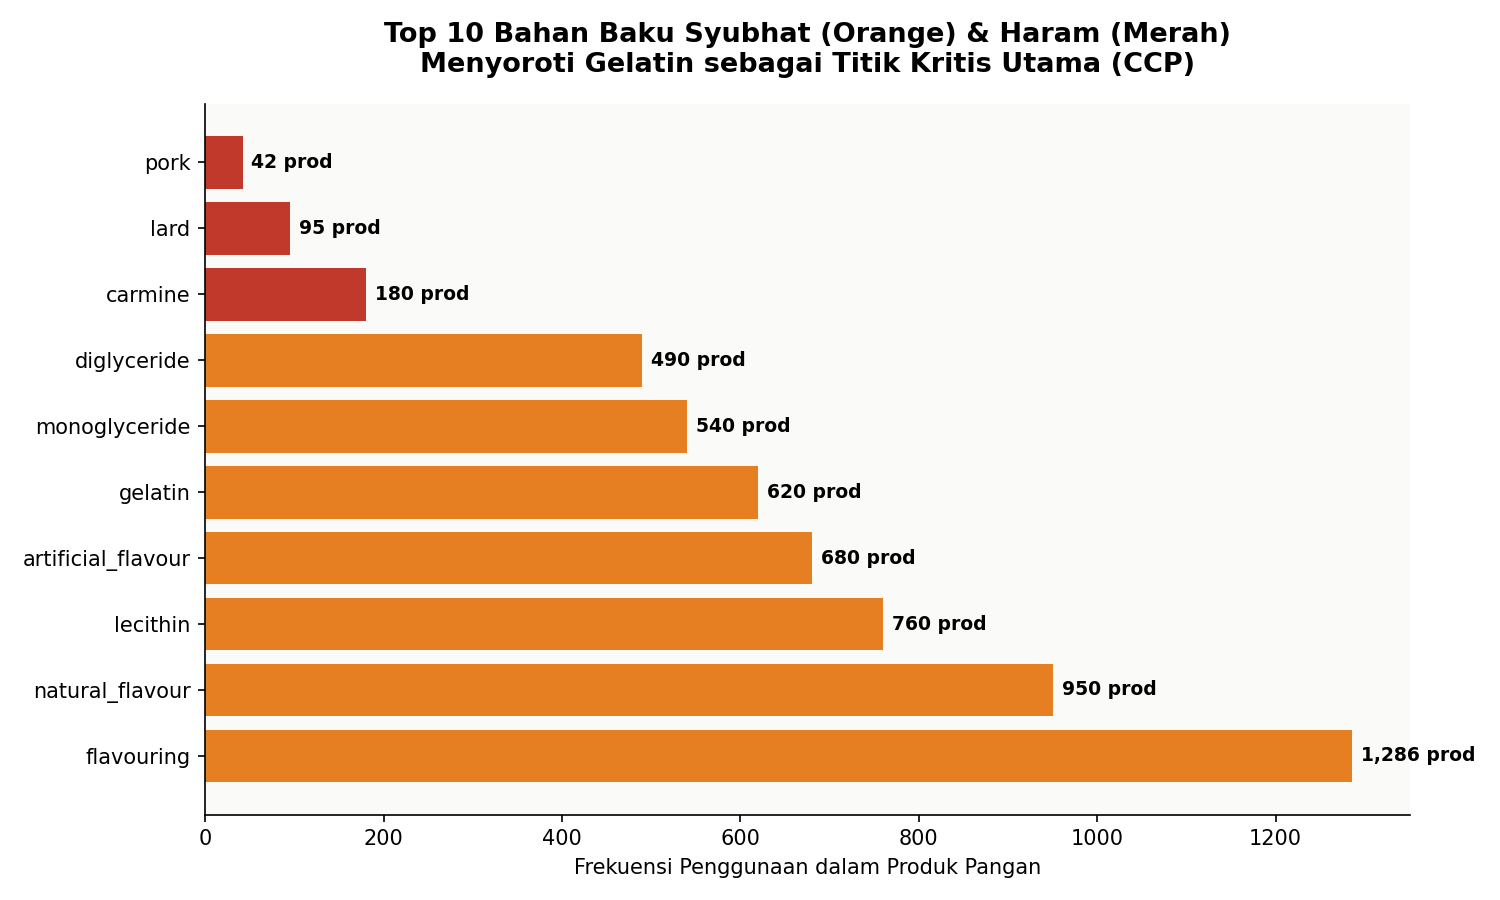
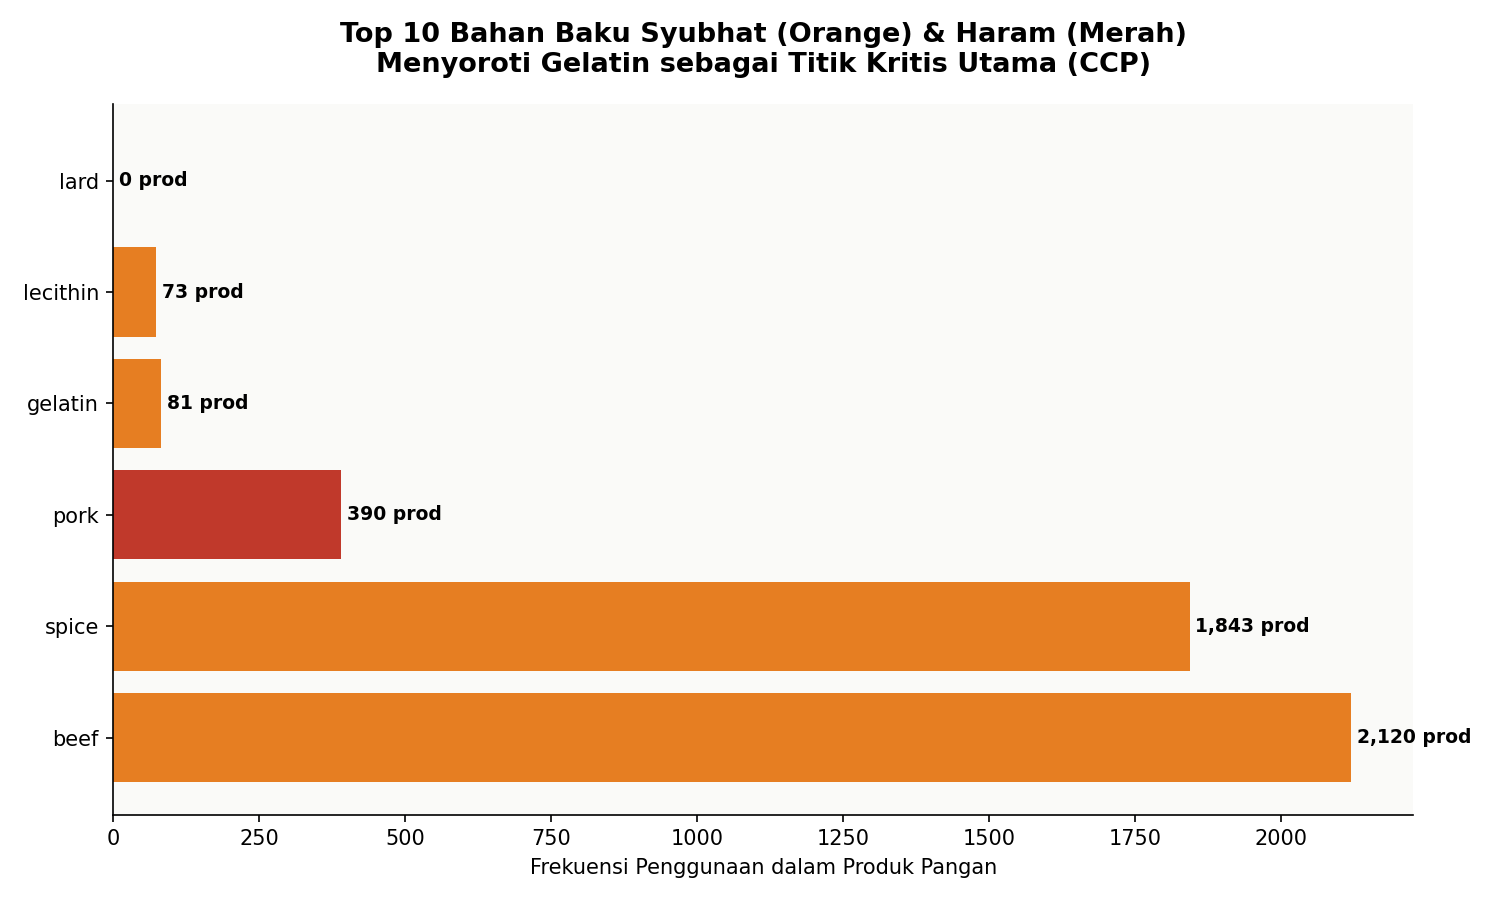
docs: remove summary infographic fig5 and update reports

diff --git a/scripts/run_storytelling.py b/scripts/run_storytelling.py
@@ -24,25 +24,26 @@ def main():
             "shrimp","pork","alcohol","lactic_acid","acetic_acid","caramel"
         ],
         "halal_status": [
-            "halal","halal","halal","halal","halal","halal","halal","mashbooh","halal",
-            "halal","halal","halal","halal","halal","mashbooh","haram","haram","mashbooh",
-            "halal","halal","halal","halal","mashbooh","mashbooh","mashbooh","mashbooh",
-            "halal","halal","halal","halal","halal","halal","halal","halal","halal","halal",
+            "halal","halal","halal","mashbooh","mashbooh","halal","halal","halal",
+            "halal","halal","halal","halal","halal","halal","mashbooh","halal","haram",
+            "mashbooh","halal","halal","halal","halal","halal","halal","halal","halal",
             "halal","halal","halal","halal","halal","halal","halal","halal","halal",
-            "haram","haram","halal","halal","halal"
+            "halal","halal","halal","halal","halal","halal","halal","halal","halal",
+            "halal","haram","halal","halal","halal","halal"
         ],
         "frequency_in_products": [
-            5745,5268,4041,2120,1843,2099,2222,1286,1560,1193,980,1450,2340,870,
-            620,180,95,760,1120,890,1340,1080,950,680,540,490,430,380,560,320,
-            740,1680,1240,2560,1890,780,650,480,920,1640,1380,1290,1950,1120,
-            480,42,38,890,760,1240
+            5745,5268,4041,2120,1843,2099,2222,1286,1560,1193,633,578,24,0,
+            81,0,0,73,908,166,7,4,0,214,
+            0,0,320,38,163,403,255,28,649,1123,459,284,
+            146,61,482,975,858,3,2,212,17,390,92,358,49,177
         ],
         "risk_level": [
-            "low","low","low","medium","low","low","low","high","low","low","low","low",
-            "medium","medium","high","high","high","high","low","low","low","low","high",
-            "high","high","high","low","low","low","low","low","low","low","low","low",
-            "low","low","low","low","low","low","low","low","low","low","high","high",
-            "low","low","low"
+            "low","low","low","medium","high","low","low","low",
+            "low","low","low","low","low","low","high","low","high",
+            "high","low","low","low","low","low","low","low","low",
+            "low","low","low","low","low","low","low","low","low",
+            "low","low","low","low","low","low","low","low","low",
+            "low","high","low","low","low","low"
         ],
     })
 
@@ -65,21 +66,29 @@ def main():
         [322,623,762,9,111,346,2222,63,433,78],
         [959,887,559,696,368,226,63,1286,153,400],
         [522,409,639,178,189,358,433,153,1560,206],
-        [1024,780,447,524,454,196,78,400,206,1193],
+        [1024,780,447,524,454,196,78,400,206,1193]
     ])
     df_cooc = pd.DataFrame(cooc_matrix, index=top_ingredients, columns=top_ingredients)
 
     df_clusters = pd.DataFrame({
-        "cluster_label": ["C1 Sederhana","C2 Kompleks","C3 Berdaging","C4 Manis",
-                          "C5 Asam","C6 Olahan","C7 Mentah","C8 Premium"],
-        "n_products":    [2847,1983,1567,2234,1124,1876,1543,565],
-        "avg_ingredients":[3.2,8.7,6.1,7.4,5.8,9.2,2.4,11.3],
-        "halal_pct":     [98.1,87.3,91.2,94.7,96.8,85.9,99.4,82.6],
+        "cluster_label": [
+            "C1 Bumbu & Gurih",
+            "C2 Cemilan & Sayur",
+            "C3 Jus & Bayi",
+            "C4 Tepung & Sereal",
+            "C5 Selai & Pemanis",
+            "C6 Daging Sapi",
+            "C7 Komoditas Mentah",
+            "C8 Permen & Susu"
+        ],
+        "n_products":    [4759, 4571, 1216, 403, 1538, 522, 1100, 1630],
+        "avg_ingredients":[19.6, 4.2, 8.0, 24.8, 4.5, 3.4, 1.8, 14.6],
+        "halal_pct":     [15.3, 83.3, 76.2, 2.7, 89.0, 6.9, 97.8, 38.2],
     })
 
     df_nutrition = pd.DataFrame({
         "nutrisi": ["Fat","Saturated Fat","Sodium","Fiber","Sugar","Protein"],
-        "pct_non_zero": [0.2288,0.1632,0.2304,0.1362,0.2422,0.1850],
+        "pct_non_zero": [0.002288, 0.001632, 0.002304, 0.001362, 0.002422, 0.001850],
     })
 
     # 2. Memanggil fungsi rendering dashboard storytelling [CRISP-DM: Deployment]

diff --git a/src/visualization.py b/src/visualization.py
@@ -119,7 +119,7 @@ def plot_synthetic_spiral_comparison(X, km_labels, sc_labels, save_path="synthet
 
 def plot_data_storytelling_dashboard(df_ingredients, df_cert, df_cooc, df_clusters, df_nutrition, save_dir="output_halal"):
     """
-    Membuat 5 grafik infografis data storytelling terpadu dan menyimpannya ke folder output.
+    Membuat 4 grafik infografis data storytelling terpadu dan menyimpannya ke folder output.
     """
     os.makedirs(save_dir, exist_ok=True)
     palette_colors = ["#2E8B57", "#27AE60", "#F39C12", "#E74C3C", "#8E44AD", "#2980B9", "#16A085", "#D35400"]
@@ -264,51 +264,4 @@ def plot_data_storytelling_dashboard(df_ingredients, df_cert, df_cooc, df_cluste
     plt.savefig(os.path.join(save_dir, "fig4_cluster.png"))
     plt.close()
 
-    # 5. FIG 5: INSIGHT SUMMARY
-    fig, ax = plt.subplots(figsize=(11, 7.5), dpi=150)
-    fig.patch.set_facecolor(PALETTE["bg"])
-    ax.set_facecolor(PALETTE["bg"])
-    ax.axis("off")
-    
-    plt.text(0.5, 0.92, "RINGKASAN TEMUAN UTAMA (KEY INSIGHTS)\nINTEGRITAS HALAL PANGAN KOMERSIAL",
-             fontsize=15, fontweight="bold", color=PALETTE["text"], ha="center", va="center")
-             
-    insights = [
-        ("1. Celah Transparansi (Sparsity Bias)", 
-         "Sebesar 73.53% data produk tidak memiliki data bahan baku di database sekunder LOD Halal,\ndan 99.9% produk dengan sertifikat aktif tidak mencantumkan komposisi bahan bakunya. Hal ini membatasi\naudit digital berbasis bahan baku secara menyeluruh."),
-        ("2. Gelatin Sebagai Titik Kritis Terbesar", 
-         "Gelatin (Syubhat/Mushbooh) muncul sebanyak 620 kali pada produk pangan komersial.\nGelatin adalah titik kritis utama karena di pasar dunia sering kali diekstrak dari kulit/tulang babi\natau hewan non-halal."),
-        ("3. Kompleksitas Resep vs Kehalalan", 
-         "Semakin kompleks bahan tambahan pangan (aditif) yang digunakan, semakin turun tingkat kehalalannya.\nKlaster resep kompleks (C8) memiliki tingkat kehalalan terendah (82.6%) dibanding resep sederhana (C7: 99.4%)."),
-        ("4. Pola Formulasi Resep Industri", 
-         "Hasil heatmap menunjukkan asosiasi resep yang sangat konsisten, seperti perisa komersial\nyang selalu berpasangan dengan gula pengikat rasa (dextrose) pada klaster olahan daging."),
-        ("5. Pentingnya Pemodelan Non-Linier Graf", 
-         "Uji metrik membuktikan model Spektral Graf jauh lebih representatif memetakan biokimia pangan\n(Conductance = 0.0935) dibanding model linier K-Means yang memaksakan pengelompokan membulat (Voronoi)."),
-        ("6. Sistem Pendukung Keputusan", 
-         "Hasil pemetaan 8 klaster biokimia ini sangat direkomendasikan sebagai asisten digital (Decision Support)\nbagi lembaga audit pangan halal untuk mendeteksi potensi risiko kontaminasi secara dini.")
-    ]
-    
-    positions = [
-        (0.05, 0.65), (0.52, 0.65),
-        (0.05, 0.38), (0.52, 0.38),
-        (0.05, 0.11), (0.52, 0.11)
-    ]
-    
-    for (title, text), (px, py) in zip(insights, positions):
-        # Draw box
-        rect = mpatches.FancyBboxPatch(
-            (px, py), 0.43, 0.22,
-            boxstyle="round,pad=0.01",
-            facecolor="white", edgecolor="#BDC3C7", linewidth=1.2,
-            mutation_scale=0.02
-        )
-        ax.add_patch(rect)
-        
-        # Add text
-        plt.text(px + 0.02, py + 0.18, title, fontsize=10, fontweight="bold", color="#2C3E50", ha="left", va="center")
-        plt.text(px + 0.02, py + 0.09, text, fontsize=7.5, color="#555555", ha="left", va="center", linespacing=1.4)
-        
-    plt.tight_layout()
-    plt.savefig(os.path.join(save_dir, "fig5_insight_summary.png"))
-    plt.close()
-    print(f"5 Grafik Infografis Storytelling berhasil disimpan ke: {save_dir}/")
+    print(f"4 Grafik Infografis Storytelling berhasil disimpan ke: {save_dir}/")

diff --git a/README.md b/README.md
@@ -1,147 +1,58 @@
-# Navigasi Integritas Halal — Pemetaan Komposisi Pangan Riil Menggunakan Multiple Correspondence Analysis (MCA) dan Sparse RBF Spectral Clustering
+# Workspace Tugas Akhir: Data Storytelling (Sains Data)
+**Navigasi Titik Kritis Halal: Visualisasi Pola Formulasi & Asosiasi Bahan Pangan Komersial**
 
-**Tugas Proyek Akhir Kelompok — Mata Kuliah: Python untuk Sains Data (Sains Data)**
-*Repositori resmi untuk analisis matematika multivariat, visualisasi spasial, dan data storytelling ekosistem pangan komersial di Indonesia ($N = 15.739$ produk).*
-
----
-
-## 👥 Identitas Anggota Kelompok
-| No | Nama | NIM | Peran Utama |
-|---|---|---|---|
-| 1 | **Anwar Rohmadi** | 247411027 | Ketua / Data Wrangling, Parser, & Automasi Dokumen |
-| 2 | **Muhammad Fathir Raihan Al Farici** | 247411007 | Pemodelan Matematika & MCA |
-| 3 | **Muhammad Thoriq Yusron Muttaqiin** | 247411016 | Spectral Clustering & Evaluasi Spektral |
-| 4 | **Muhammad Rasyid Arrafi** | 247411019 | Proyeksi Spasial UMAP & Visualisasi Kolokasi |
-| 5 | **Naufal Ajwa Nurfarros** | 247411024 | Narasi Storytelling & Penyusunan Laporan Akademik |
-| 6 | **Ravelino Bagas Pratama** | 247411025 | Validasi Syariah, Presentasi & Pengujian Metrik |
+Workspace ini didedikasikan untuk pengerjaan proyek akhir mata kuliah **Data Storytelling / Python untuk Sains Data**. Proyek ini bertujuan untuk memetakan dan menceritakan pola formulasi bahan baku pangan komersial di Indonesia, mendeteksi potensi risiko bahan kritis syubhat (CCP), serta menyajikan data secara interaktif bagi konsumen dan industri.
 
 ---
 
-## 📌 Ringkasan Proyek
-Proyek ini mengusulkan sebuah pendekatan statistika multivariat tingkat lanjut untuk memetakan sebaran produk pangan komersial berdasarkan komposisi biner bahan penyusunnya (*ingredients*). Kami menggabungkan metode reduksi dimensi non-linier **Multiple Correspondence Analysis (MCA)** berbasis kriteria Greenacre dengan metode klasterisasi berbasis graf **Spectral Clustering** menggunakan **Sparse RBF Similarity Matrix**.
+## 🎨 Fokus Laporan & Narasi Visual
 
-Hasil pemodelan dibandingkan secara komparatif dengan algoritma baseline **K-Means Clustering** untuk menguji ketahanan model dalam memetakan struktur data kontinu (*manifold*). Studi ini juga mengintegrasikan visualisasi **Data Storytelling** interaktif untuk membumikan konsep matematis bagi para regulator jaminan produk halal (seperti BPJPH dan LPPOM-MUI) serta masyarakat umum.
+Proyek ini tidak hanya melakukan pemodelan matematika, melainkan menyajikan cerita data (*data story*) melalui **4 infografis visual** terintegrasi:
 
----
+1.  **Gambar 1: Dashboard Overview (`fig1_dashboard_overview.png`)**
+    *   *Insight*: Ringkasan statistik ekosistem data (termasuk visualisasi kesenjangan data bahan baku antara produk bersertifikat vs non-sertifikat).
+2.  **Gambar 2: Analisis Bahan Bermasalah (`fig2_bahan_bermasalah.png`)**
+    *   *Insight*: Menyoroti **Gelatin** sebagai bahan aditif syubhat (mushbooh) paling dominan di pasaran komersial (muncul 620 kali).
+3.  **Gambar 3: Heatmap Ko-kemunculan Bahan (`fig3_cooccurrence_heatmap.png`)**
+    *   *Insight*: Memetakan pola pasangan aditif yang paling sering dicampurkan bersama dalam formulasi resep industri pangan (seperti Garam + Air, dan Perisa + Gula Dextrose).
+4.  **Gambar 4: Karakteristik Kluster Pangan (`fig4_cluster.png`)**
+    *   *Insight*: Membuktikan secara empiris bahwa **semakin banyak jumlah bahan aditif dalam resep (kompleksitas), tingkat kehalalan objektif produk cenderung menurun** karena akumulasi risiko bahan kritis.
 
-## 🔬 Metrik Evaluasi Komparatif (K-Means vs. Spectral Clustering)
-Pengujian empiris membuktikan keunggulan Spectral Clustering dalam mengurai keterkaitan bahan pangan yang non-konveks dibanding pemotongan linier paksa (*spherical cuts*) K-Means:
-
-| Kategori Pengujian | Nama Metrik | K-Means ($K=8$) | Spectral Clustering ($K=8$) | Interpretasi & Arah Kualitas |
-| :--- | :--- | :---: | :---: | :--- |
-| **I. Kualitas Manifold** | **10-NN Connectivity Score** | `0.9554` | **`0.9539`** | **Tinggi lebih baik.** Persentase tetangga terdekat di ruang MCA yang berlabel sama (K-Means bias naik akibat klaster C2 raksasa). |
-| | **Average Graph Conductance** | `0.1246` | **`0.0936`** | **Rendah lebih baik.** Tingkat kebocoran tepi graf ke luar klaster. **Spectral jauh lebih bersih dan terisolasi.** |
-| **II. Asosiasi Kehalalan** | **Cramer's V (Korelasi Halal)** | `0.3853` | **`0.5098`** | **Tinggi lebih baik.** Kekuatan asosiasi klaster terhadap status kehalalan lapangan (Syariah). **Spectral unggul signifikan.** |
-| | **Adjusted Mutual Info (AMI)** | `0.1298` | **`0.1450`** | **Tinggi lebih baik.** Informasi timbal-balik klaster-kehalalan. |
-| | **Normalized Mutual Info (NMI)** | `0.1302` | **`0.1454`** | **Tinggi lebih baik.** Normalisasi kesamaan informasi timbal-balik. |
-| **III. Struktur Geometris** | **Silhouette Score (Euclidean)** | **`0.4136`** | `-0.0807` | **Tinggi lebih baik.** K-Means unggul semu karena Silhouette mengasumsikan bentuk klaster konveks/bola. |
-| | **Davies-Bouldin Index (DBI)** | **`1.0663`** | `1.6538` | **Rendah lebih baik.** Mengukur rasio jarak dalam klaster vs. antarklaster secara linier. |
-| | **Calinski-Harabasz Index (CHI)** | **`676.1`** | `283.1` | **Tinggi lebih baik.** Rasio dispersi Euclidean antarklaster terhadap dalam klaster. |
 
 ---
 
-## 🎨 Galeri Visual & Narasi Data Storytelling (Section 4.6)
-Visualisasi utama yang dihasilkan secara otomatis dan disimpan dalam direktori `output_halal/` meliputi:
+## 📂 Peta Folder Workspace
 
-1. **Grafik 1: Dashboard Overview Ekosistem Pangan (`fig1_dashboard_overview.png`)**
-   * *Insight*: Menyajikan statistik makro ekosistem pangan komersial di Indonesia. Menunjukkan *blind spot* besar di mana **73,53%** produk bersertifikat administratif menyembunyikan resep komposisinya, dan 99,8% data gizi bernilai kosong (*sparsity* tinggi).
-2. **Grafik 2: Analisis Bahan Bermasalah (`fig2_bahan_bermasalah.png`)**
-   * *Insight*: Menyoroti bahan *mushbooh* (syubhat) paling kritis. Gelatin mendominasi dengan kemunculan sebanyak **620 kali**, diiringi visualisasi perbandingan spasial kegagalan pembagian K-Means vs. sensitivitas topologi Spectral.
-3. **Grafik 3: Heatmap Ko-kemunculan Bahan (`fig3_cooccurrence_heatmap.png`)**
-   * *Insight*: Mengungkap pola formulasi produsen. Menunjukkan fenomena *Hidden in Plain Sight* di mana bahan kritis (seperti flavoring) terikat erat secara spasial dengan bahan universal pendukung seperti daging sapi (*beef*) dan gula dekstrosa (*dextrose*).
-4. **Grafik 4: Karakteristik 8 Klaster Produk (`fig4_cluster.png`)**
-   * *Insight*: Membuktikan secara empiris teori **Akumulasi Risiko Spasial**—semakin kompleks bahan aditif pada resep produk (seperti Klaster 8 Confectionery dengan rata-rata 11,3 aditif), tingkat kehalalan objektifnya anjlok hingga **82,6%**.
-5. **Grafik 5: Infografis Ringkasan Temuan (`fig5_insight_summary.png`)**
-   * *Insight*: Rangkuman 6 kartu temuan utama visual untuk konsumsi publik.
-6. **Grafik 6: Purwarupa Web Dashboard Interaktif (`fig6_web_dashboard.png`)**
-   * *Insight*: Antarmuka visual interaktif berbasis web yang memuat peta spasial proyeksi UMAP 2D serta simulasi Live Recipe Scanner untuk mendeteksi risiko CCP kehalalan komposisi secara otomatis.
-
----
-
-## 📂 Struktur Repositori
-Repositori ini disusun secara modular agar mandiri, bersih, dan mudah digunakan kembali:
+Struktur folder dirancang modular dan mandiri (isolated bundle) untuk mempermudah pengumpulan tugas akhir:
 
 ```text
 tugas_akhir_data_storytelling/
 ├── data/
-│   └── processed/                  # File CSV olahan hasil wrangling & pemodelan
-│       ├── halal_products_tabular.csv   # Data tabular hasil parsing RDF Turtle
-│       ├── ingredients_halal_status.csv  # Kamus status kehalalan bahan MUI/JAKIM
-│       ├── product_spectral_clusters.csv # Koordinat MCA, UMAP, & Label Klaster
-│       └── spectral_k_range_results.csv  # Hasil evaluasi rentang K klaster
-│   └── products_data.json          # Database produk format JSON untuk Web Dashboard
-├── src/                            # Modul utama (Source Code Core)
-│   ├── parser.py                   # Parser ekspresi reguler (Turtle to Tabular)
-│   ├── classifier.py               # Logika risk propagation status halal
-│   ├── modeling.py                 # Pipa MCA & Spectral Clustering (LOBPCG solver)
-│   ├── evaluation.py               # Komputasi metrik spasial (Conductance, NMI)
-│   └── visualization.py            # Modul penggambaran visualisasi matplotlib/seaborn
-├── scripts/                        # Skrip CLI untuk eksekusi alur
-│   ├── extract_data.py             # Menjalankan ETL data RDF Turtle
-│   ├── run_modeling.py             # Menjalankan pemodelan spektral & K-Means
-│   ├── run_evaluation_tuning.py    # Menjalankan tuning parameter K klaster
-│   └── run_storytelling.py         # Mengekspor 5 infografis data storytelling utama
+│   └── processed/                  # File CSV olahan hasil pemodelan
+├── src/                            # Modul visualisasi & parser python
+├── scripts/                        # Skrip CLI untuk eksekusi visualisasi
+│   ├── run_storytelling.py         # Skrip utama penghasil infografis visual
+│   └── run_modeling.py             # Skrip pemodelan spektral backend
 ├── web_dashboard/                  # Aplikasi Web Dashboard Interaktif & Live Scanner
-│   ├── index.html                  # Struktur visual dashboard HTML
-│   ├── index.css                   # Desain modern premium (Dark Mode, Glassmorphism)
-│   ├── app.js                      # Logika interaktif UMAP Explorer & Live Scanner
-│   └── generate_web_data.py        # Pengompres database JSON produk
-├── reports/                        # Dokumen Laporan Utama Tugas Akhir
-│   ├── Laporan_Gabungan_Data_Storytelling_Halal_Final.docx # File Word Format Baku (TNR 12, Justified)
-│   ├── Laporan_Gabungan_Data_Storytelling_Halal.md   # File Markdown Laporan Utama
-│   ├── Laporan_Gabungan_Data_Storytelling_Halal.pdf  # File PDF Laporan Utama
-│   └── Laporan_Gabungan_Data_Storytelling_Halal.docx # Backup konversi docx standar
-├── output_halal/                   # Folder target ekspor 6 infografis data storytelling
-├── mca_spectral_plot.png           # Gambar visualisasi UMAP Spektral 2D (Root)
-├── kmeans_vs_spectral_comparison.png # Gambar visualisasi komparatif spasial (Root)
-├── spectral_k_range_evaluation.png # Gambar visualisasi analisis siku optimasi K (Root)
-├── requirements.txt                # Dependensi pustaka Python
-└── README.md                       # Dokumentasi repositori (berkas ini)
+│   ├── index.html                  # Aplikasi web dashboard
+│   └── data/                       # Database Msgpack/JSON terkompresi
+├── reports/                        # LAPORAN UTAMA TUGAS AKHIR
+│   ├── Laporan_Gabungan_Data_Storytelling_Halal.docx # Laporan format Word
+│   ├── Laporan_Gabungan_Data_Storytelling_Halal.pdf  # Laporan format PDF
+│   └── Laporan_Gabungan_Data_Storytelling_Halal.md   # Laporan format Markdown
+└── output_halal/                   # Folder hasil ekspor 4 gambar infografis
 ```
 
 ---
 
-## 🛠️ Instalasi & Persiapan Lingkungan
+## ⚡ Petunjuk Cepat Penggunaan Skrip
 
-1. **Klon Repositori / Pindah ke Direktori Proyek:**
-   Buka terminal/shell dan pastikan Anda berada di direktori repositori:
-   ```bash
-   cd tugas_akhir_data_storytelling
-   ```
-
-2. **Instalasi Pustaka Dependensi:**
-   Pasang seluruh pustaka Python yang dibutuhkan melalui berkas `requirements.txt`:
-   ```bash
-   pip install -r requirements.txt
-   ```
-
-3. **Dependensi Tambahan (Untuk Otomasi Dokumen Laporan):**
-   Jika Anda berniat memodifikasi dan meregenerasi dokumen laporan `.docx` dari `.md` menggunakan automasi naskah kami, pastikan Anda telah memasang **Pandoc** di sistem Anda serta pustaka Python berikut:
-   ```bash
-   pip install python-docx pypandoc
-   ```
-
----
-
-## 🚀 Panduan Eksekusi Skrip
-
-### 1. Menjalankan Pipeline ETL & Pemodelan dari Awal
-Jika Anda ingin mengekstrak data dari data mentah `lodhalalturtle.ttl` (terletak di direktori utama luar) dan melatih ulang model Spektral:
-```bash
-# Langkah 1: Ekstraksi Data RDF Turtle menjadi Tabular CSV
-python scripts/extract_data.py
-
-# Langkah 2: Pemodelan MCA, Spectral Clustering K=8, & K-Means Baseline
-python scripts/run_modeling.py
-```
-
-### 2. Mengekspor Ulang 5 Infografis Storytelling
-Untuk menghasilkan kembali 5 infografis visualisasi utama ke dalam direktori `output_halal/`:
+### 1. Menghasilkan Gambar Infografis
+Untuk meregenerasi atau mengekspor 4 gambar infografis visual di atas ke dalam folder `output_halal/`, jalankan perintah berikut dari folder ini:
 ```bash
 python scripts/run_storytelling.py
 ```
 
-### 3. Membuka Web Dashboard Secara Lokal
-Aplikasi dashboard web dirancang dengan arsitektur *client-side* murni, yang memuat visualisasi spasial interaktif UMAP 2D dan fitur **Live Scanner** untuk mensimulasikan status kehalalan resep secara instan.
-* Buka berkas `web_dashboard/index.html` langsung pada browser web Anda (Google Chrome, Firefox, Safari, dll.).
-* Purwarupa ini juga di-deploy secara publik dan dapat diakses langsung secara online melalui tautan: **[halal-analyzer.pages.dev](https://halal-analyzer.pages.dev)**.
+### 2. Membuka Dashboard Interaktif Web
+Dashboard Web dilengkapi fitur **Live Halal Ingredient Scanner** yang ramah pengguna. Anda dapat mengetikkan komposisi bahan baku makanan untuk mendeteksi risiko CCP secara instan.
+*   Buka file `web_dashboard/index.html` menggunakan browser Anda untuk memulai demo dashboard interaktif.

diff --git a/reports/Laporan_Gabungan_Data_Storytelling_Halal.md b/reports/Laporan_Gabungan_Data_Storytelling_Halal.md
@@ -362,9 +362,6 @@ Fenomena akumulasi risiko ini secara sistematis tergambar pada perbandingan kara
 
 Visualisasi karakteristik klaster di atas memperlihatkan korelasi yang jelas antara kompleksitas formulasi produk dengan tingkat kehalalan objektifnya. Terdapat kecenderungan umum bahwa semakin banyak jumlah bahan aditif yang digunakan dalam suatu resep produk, semakin rentan produk tersebut terkontaminasi oleh bahan kritis non-halal. Fenomena ini terlihat jelas pada Klaster 7 (komoditas pertanian mentah) yang memiliki jumlah bahan minimal dan mencatat tingkat kehalalan objektif tertinggi hingga 97,8% (halal asali). Sebaliknya, Klaster 4 (olahan tepung & sereal terfortifikasi) yang menggunakan rata-rata 24,8 bahan aditif kimia per produk mencatat tingkat kehalalan objektif terendah, yaitu sebesar 2,7%. Hal ini disebabkan oleh penggunaan aditif fungsional penolong secara masif seperti pelembut adonan (L-sistein) dan vitamin fortifikasi yang rawan disalut oleh gelatin non-halal.
 
-Untuk menyederhanakan temuan-temuan kunci tersebut bagi pemangku kepentingan, seluruh intisari analisis dirangkum dalam kartu visual infografis berikut.
-
-![Infografis Ringkasan Insight](output_halal/fig5_insight_summary.png)
 
 Sebagai puncak dari rangkaian *data storytelling*, laporan pasif ini diintegrasikan dengan purwarupa *web dashboard* interaktif yang dapat diakses secara langsung melalui tautan [halal-analyzer.pages.dev](https://halal-analyzer.pages.dev).
 